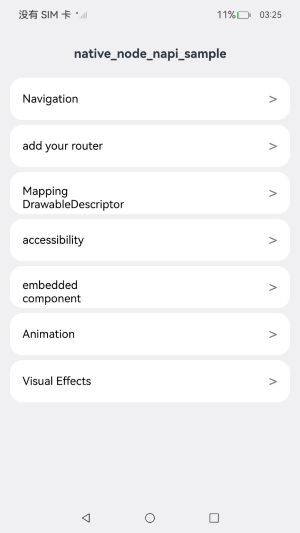
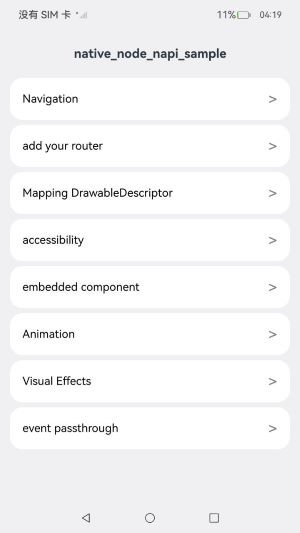
enableEventPassthrough

diff --git a/code/DocsSample/ArkUISample/NativeNodeNapi/native_node_napi/entry/src/main/cpp/types/libentry/Index.d.ts b/code/DocsSample/ArkUISample/NativeNodeNapi/native_node_napi/entry/src/main/cpp/types/libentry/Index.d.ts
@@ -35,3 +35,4 @@ export const createVisualEffectsAngle: (content: Object) => void;
 export const createVisualEffectsStyle: (content: Object) => void;
 export const createVisualEffectsGroup: (content: Object) => void;
 export const destroyNativeRoot: () => void;
+export const createEventPassthrough: (content: Object) => void;

diff --git a/code/DocsSample/ArkUISample/NativeNodeNapi/native_node_napi/entry/src/main/cpp/ArkUIVisualEffectsNode.h b/code/DocsSample/ArkUISample/NativeNodeNapi/native_node_napi/entry/src/main/cpp/ArkUIVisualEffectsNode.h
@@ -462,6 +462,56 @@ std::shared_ptr<ArkUIBaseNode> CreateVisualEffectsGroup()
     return column;
 }
 
+std::shared_ptr<ArkUIBaseNode> createEventPassthrough()
+{
+    auto column = std::make_shared<ArkUIColumnNode>();
+    auto textNode = std::make_shared<ArkUITextNode>();
+    textNode->SetTextContent("enableEventPassthrough");
+    textNode->SetWidth(MIDDLE_LENGTH);
+    textNode->SetHeight(MIDDLE_LENGTH);
+    textNode->SetBackgroundColor(COLOR_PINK);
+    column->AddChild(textNode);
+    auto textNodeHandle = textNode->GetHandle();
+    Manager::nodeAPI_->registerNodeEvent(textNodeHandle, NODE_ON_CLICK_EVENT, 0, nullptr);
+    Manager::nodeAPI_->addNodeEventReceiver(textNodeHandle, [](ArkUI_NodeEvent *event) {
+        if (OH_ArkUI_NodeEvent_GetEventType(event) == NODE_ON_CLICK_EVENT) {
+            OH_LOG_Print(LOG_APP, LOG_INFO, LOG_PRINT_DOMAIN, "EventPassthroughTest", "enableEventPassthrough");
+            auto node = OH_ArkUI_NodeEvent_GetNodeHandle(event);
+            auto uiContext = OH_ArkUI_GetContextByNode(node);
+            OH_ArkUI_EnableEventPassthrough(uiContext, true, ARKUI_RAW_INPUT_EVENT_TYPE_TOUCH);
+        }
+    });
+    auto textNode2 = std::make_shared<ArkUITextNode>();
+    textNode2->SetTextContent("disableEventPassthrough");
+    textNode2->SetWidth(MIDDLE_LENGTH);
+    textNode2->SetHeight(MIDDLE_LENGTH);
+    textNode2->SetBackgroundColor(COLOR_YELLOW);
+    column->AddChild(textNode2);
+    auto textNodeHandle2 = textNode2->GetHandle();
+    Manager::nodeAPI_->registerNodeEvent(textNodeHandle2, NODE_ON_CLICK_EVENT, 1, nullptr);
+    Manager::nodeAPI_->addNodeEventReceiver(textNodeHandle2, [](ArkUI_NodeEvent *event) {
+        if (OH_ArkUI_NodeEvent_GetEventType(event) == NODE_ON_CLICK_EVENT) {
+            OH_LOG_Print(LOG_APP, LOG_INFO, LOG_PRINT_DOMAIN, "EventPassthroughTest", "disableEventPassthrough");
+            auto node = OH_ArkUI_NodeEvent_GetNodeHandle(event);
+            auto uiContext = OH_ArkUI_GetContextByNode(node);
+            OH_ArkUI_EnableEventPassthrough(uiContext, false, ARKUI_RAW_INPUT_EVENT_TYPE_TOUCH);
+        }
+    });
+    auto textNode3 = std::make_shared<ArkUITextNode>();
+    textNode3->SetTextContent("touch event");
+    textNode3->SetWidth(MIDDLE_LENGTH);
+    textNode3->SetHeight(MIDDLE_LENGTH);
+    textNode3->SetBackgroundColor(COLOR_RED);
+    column->AddChild(textNode3);
+    auto textNodeHandle3 = textNode3->GetHandle();
+    Manager::nodeAPI_->registerNodeEvent(textNodeHandle3, NODE_TOUCH_EVENT, 0, nullptr);
+    Manager::nodeAPI_->addNodeEventReceiver(textNodeHandle3, [](ArkUI_NodeEvent *event) {
+        if (OH_ArkUI_NodeEvent_GetEventType(event) == NODE_TOUCH_EVENT) {
+            OH_LOG_Print(LOG_APP, LOG_INFO, LOG_PRINT_DOMAIN, "EventPassthroughTest", "NODE_TOUCH_EVENT");
+        }
+    });
+    return column;
+}
 
 } // namespace NativeModule
 

diff --git a/code/DocsSample/ArkUISample/NativeNodeNapi/native_node_napi/entry/src/main/cpp/manager.cpp b/code/DocsSample/ArkUISample/NativeNodeNapi/native_node_napi/entry/src/main/cpp/manager.cpp
@@ -416,6 +416,22 @@ napi_value createVisualEffectsGroup(napi_env env, napi_callback_info info)
     return nullptr;
 }
 
+napi_value Manager::createEventPassthrough(napi_env env, napi_callback_info info)
+{
+    size_t argc = 1;
+    napi_value args[1] = {nullptr};
+
+    napi_get_cb_info(env, info, &argc, args, nullptr, nullptr);
+
+    ArkUI_NodeContentHandle contentHandle;
+    OH_ArkUI_GetNodeContentFromNapiValue(env, args[0], &contentHandle);
+    Manager::GetInstance()->SetContentHandle(contentHandle);
+
+    auto column = NativeModule::createEventPassthrough();
+    Manager::GetInstance()->SetRootNode(column);
+    return nullptr;
+}
+
 napi_value DestroyNativeRoot(napi_env env, napi_callback_info info)
 {
     Manager::GetInstance()->DisposeRootNode();

diff --git a/code/DocsSample/ArkUISample/NativeNodeNapi/native_node_napi/entry/src/main/cpp/napi_init.cpp b/code/DocsSample/ArkUISample/NativeNodeNapi/native_node_napi/entry/src/main/cpp/napi_init.cpp
@@ -58,6 +58,8 @@ napi_property_descriptor desc[] = {
     {"destroyNativeRoot", nullptr, DestroyNativeRoot, nullptr, nullptr, nullptr, napi_default, nullptr},
     { "processDrawable", nullptr, Manager::ProcessDrawable, nullptr, nullptr, nullptr, napi_default, nullptr },
     { "processDrawable2", nullptr, Manager::ProcessDrawable2, nullptr, nullptr, nullptr, napi_default, nullptr },
+    {"createEventPassthrough", nullptr, Manager::createEventPassthrough, nullptr, nullptr, nullptr,
+        napi_default, nullptr},
 };
 
 static napi_value Init(napi_env env, napi_value exports)

diff --git a/code/DocsSample/ArkUISample/NativeNodeNapi/native_node_napi/entry/src/main/cpp/manager.h b/code/DocsSample/ArkUISample/NativeNodeNapi/native_node_napi/entry/src/main/cpp/manager.h
@@ -82,6 +82,7 @@ public:
     static napi_value ProcessDrawable2(napi_env env, napi_callback_info info);
     static napi_value CreateNativeAccessibilityNode(napi_env env, napi_callback_info info);
     static napi_value CreateNativeEmbeddedComponentNode(napi_env env, napi_callback_info info);
+    static napi_value createEventPassthrough(napi_env env, napi_callback_info info);
 
 private:
     int32_t cnt = 0;

diff --git a/code/DocsSample/ArkUISample/NativeNodeNapi/native_node_napi/README.md b/code/DocsSample/ArkUISample/NativeNodeNapi/native_node_napi/README.md
@@ -22,6 +22,7 @@
 ```
 "success to get drawable descriptor"
 ```
+7. 点击event passthrough选择框进入事件直通相关的CAPI接口展示界面，通过点击不同的文本等行为来启用或禁用touch事件的事件直通，具体结果在log中查看。
 
 ## 工程目录
 
@@ -32,6 +33,7 @@ entry/src/main/ets/
     ├── page_navigation.ets (获取导航页面)
     ├── page_accessibility.ets (无障碍界面)
     ├── page_embedded_component.ets (嵌入式组件界面)
+    ├── page_passthrough.ets (嵌入式组件界面)
     └── GetDrawableDescriptor.ets (映射DrawableDescriptor页面)
 entry/src/main/
 ├── cpp
@@ -70,9 +72,9 @@ entry/src/main/
 
 1. 本示例支持标准系统上运行，支持设备：RK3568;
 
-2. 本示例支持API20版本SDK，版本号：6.0.0.36;
+2. 本示例支持API26版本SDK，版本号：7.0.0.19;
 
-3. 本示例已支持使DevEco Studio 5.1.1 Release (构建版本：5.1.1.840，构建 2025年9月20日)编译运行
+3. 本示例已支持使DevEco Studio 6.0.2 Release (构建版本：6.0.2.650，构建 2026年3月30日)编译运行
 
 ## 下载
 